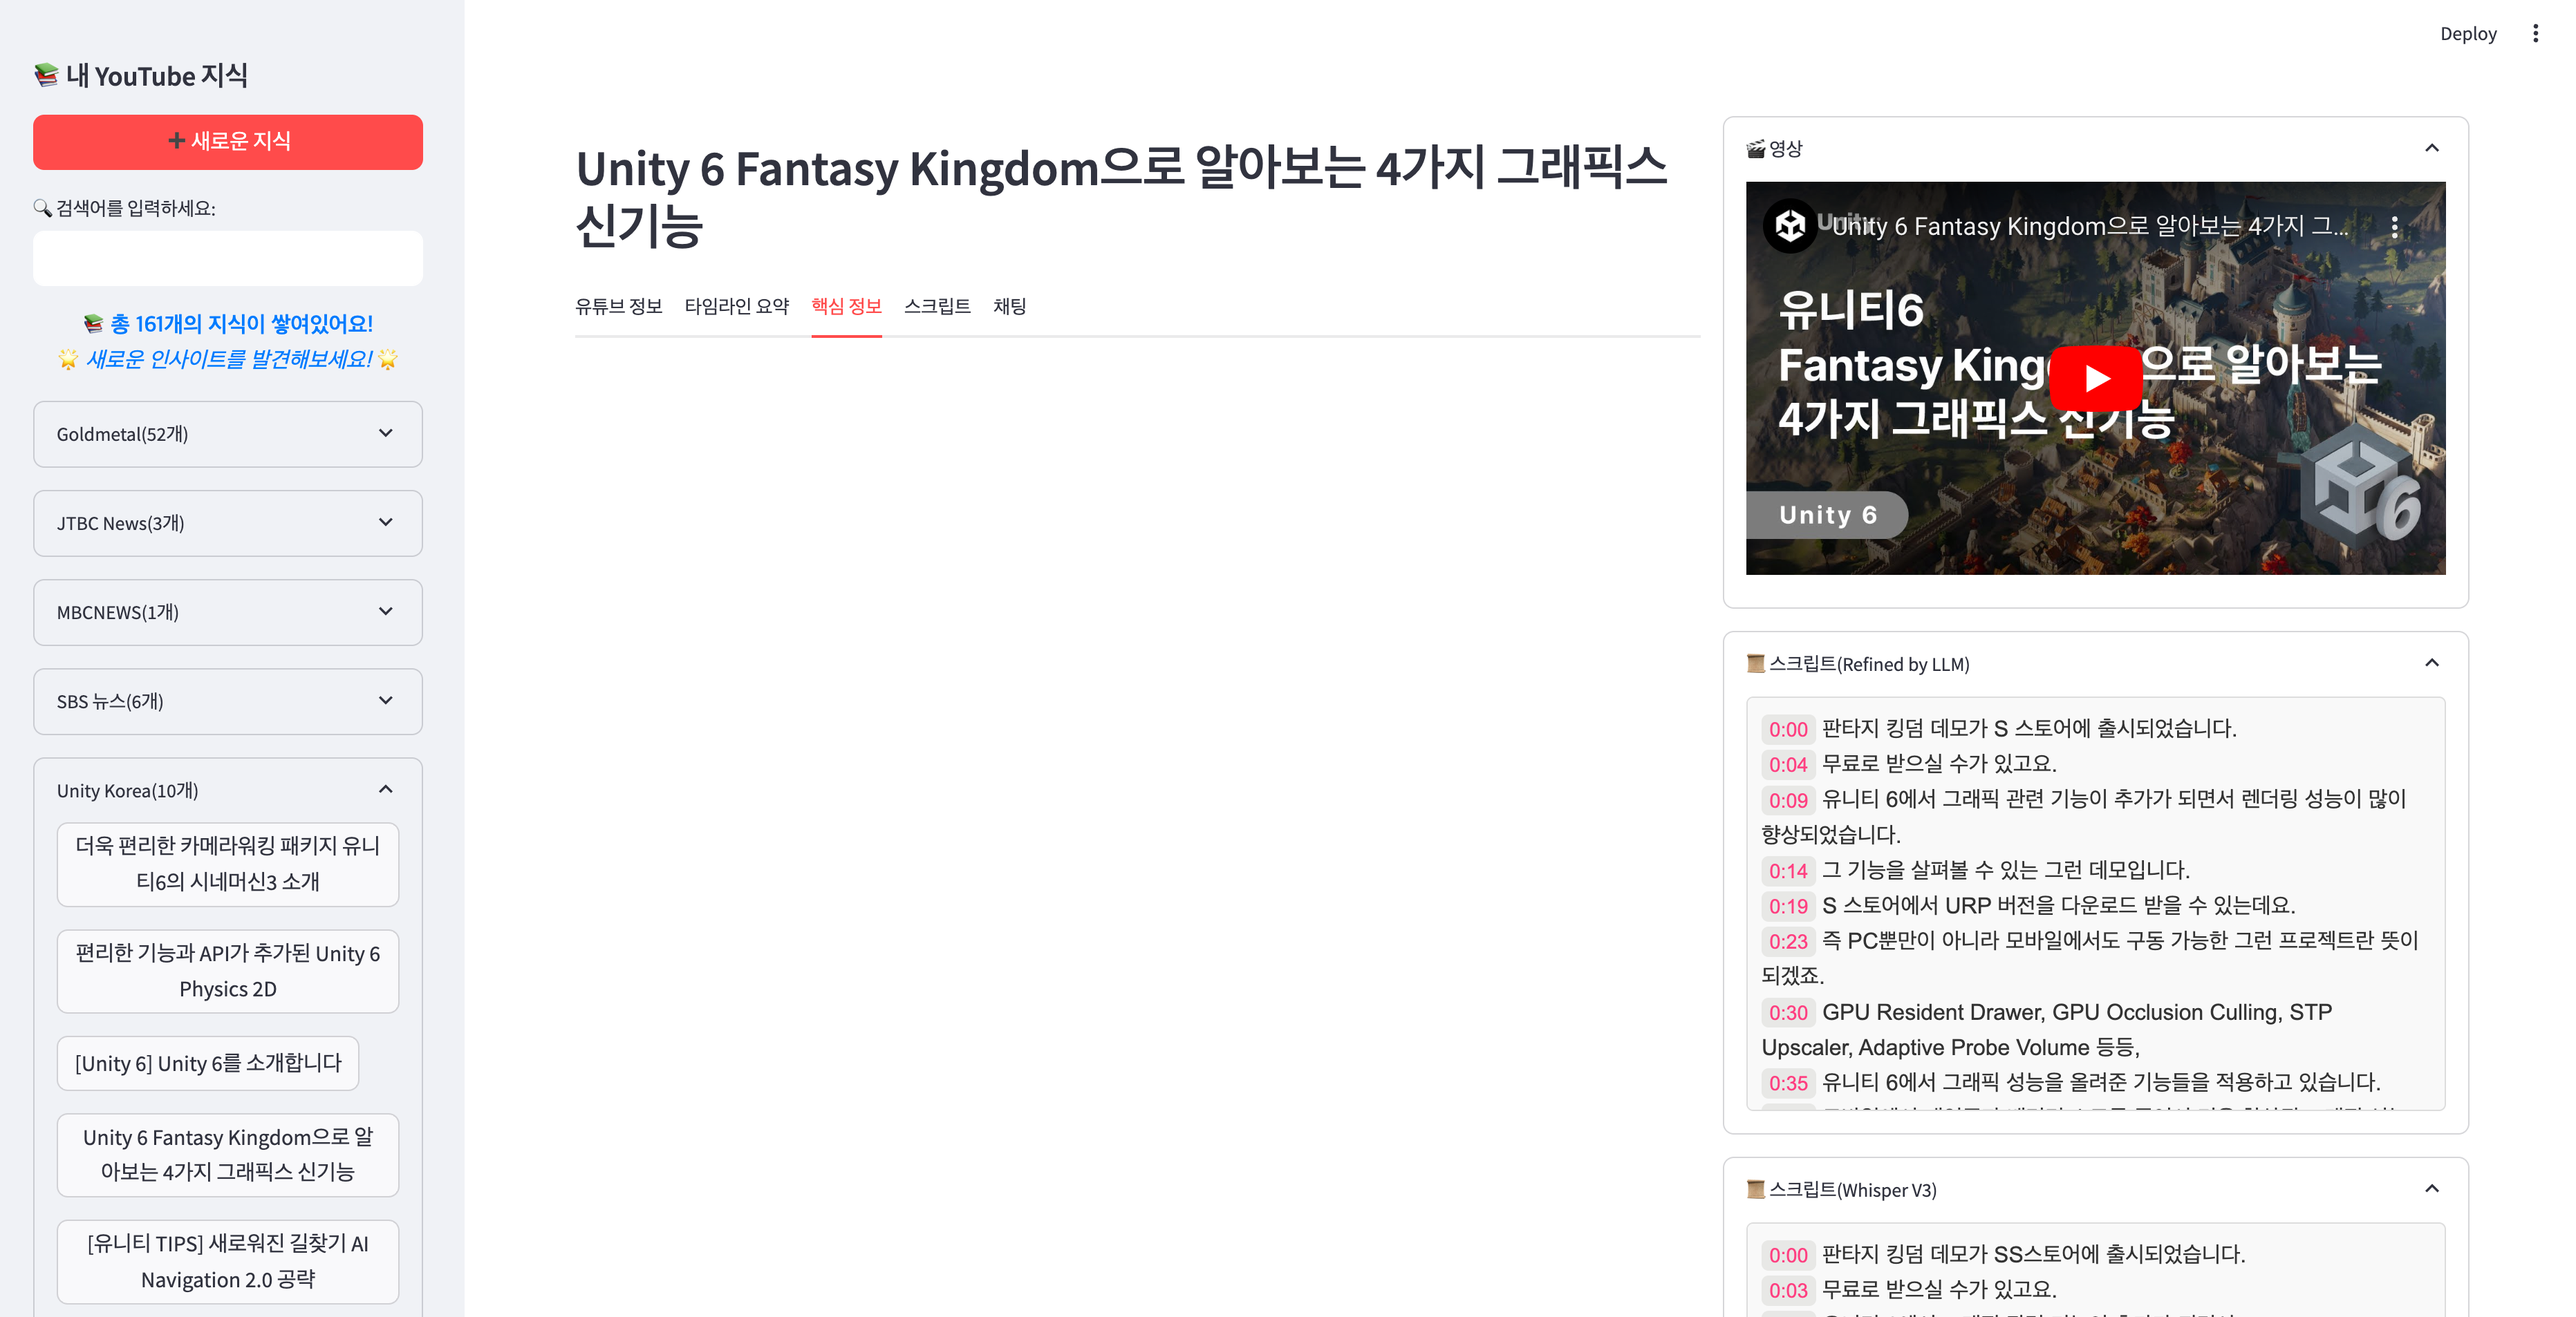
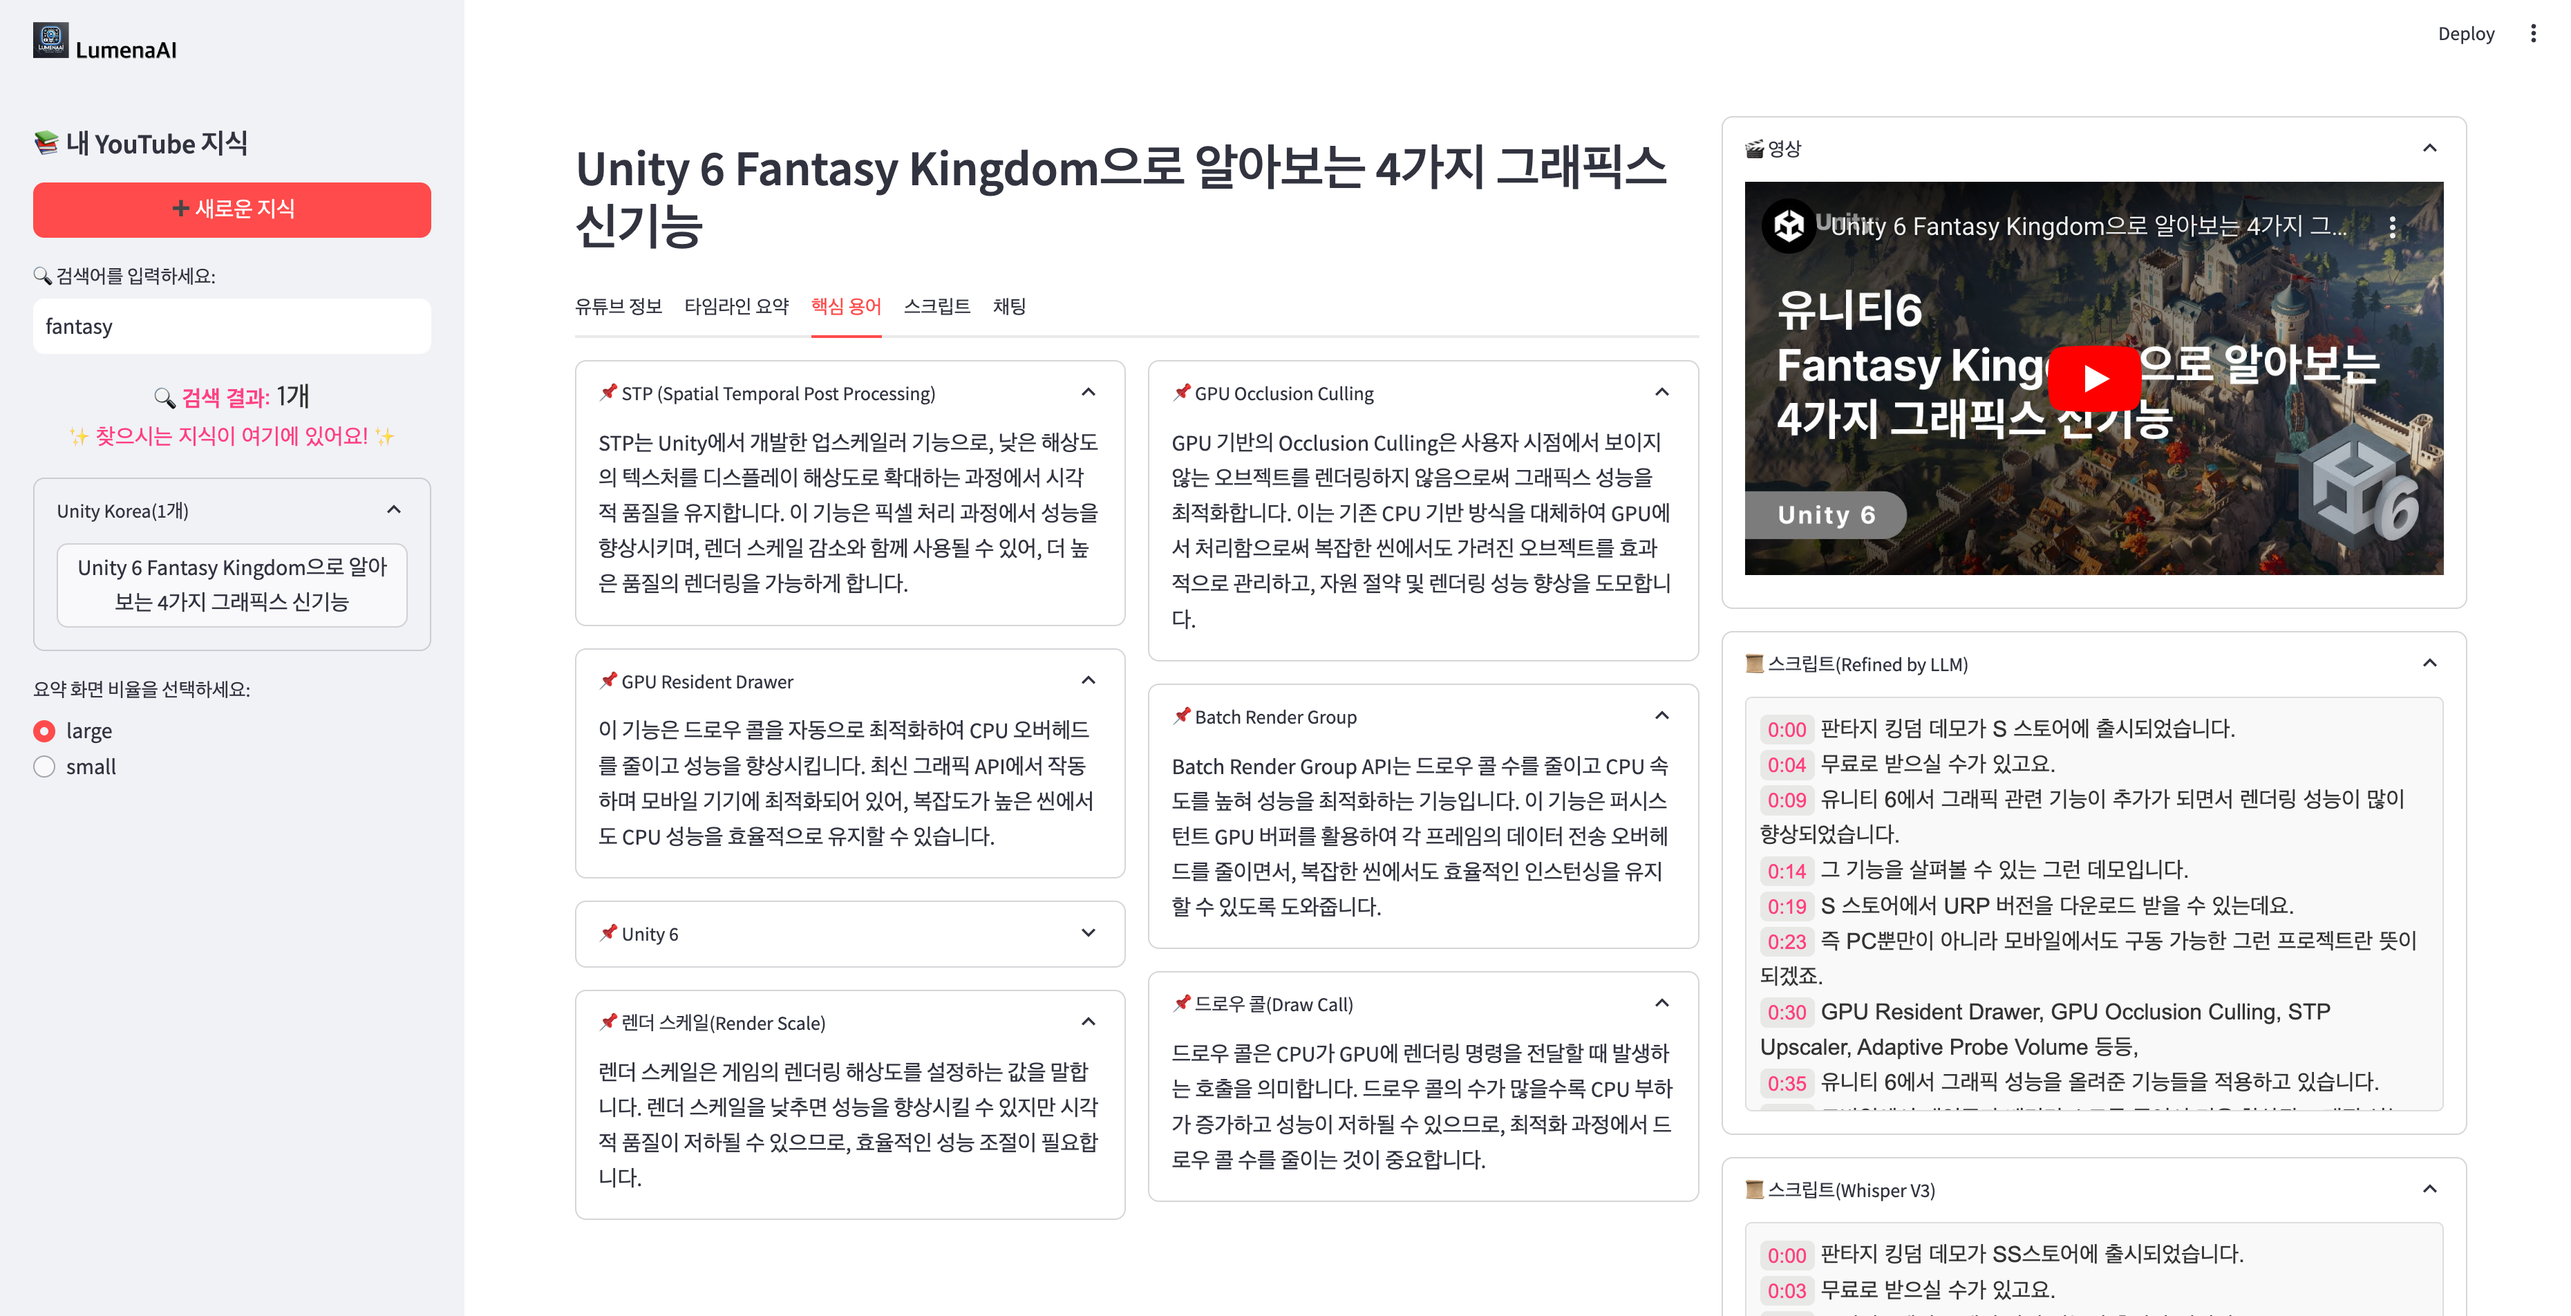
새로운 기능 이미지 추가

diff --git a/readme.md b/readme.md
@@ -20,12 +20,10 @@
     -  키워드 설명: [인스트럭션 튜닝(facebook/opt-350m)](https://github.com/adunStudio/hanghae99_plusAI_2/blob/main/7%EC%A3%BC%EC%B0%A8_%EC%8B%AC%ED%99%94/train.py)
 
 ### 8주차
+- [ ]  **핵심 용어 모음집 생성 기능 로컬 LLM 적용**
+    - 한 푼이라도 아끼자!
 - [ ]  **프롬프트 최적화를 통한 최고의 요약 생성**
     - 프롬프트 엔지니어링을 통해 요약 품질을 극대화하고 효율적인 응답 생성 전략 개발.
-
-- [x]  **핵심 용어 모음집 생성 기능 로컬 LLM 적용**
-    - 한 푼이라도 아끼자!
-
 ---
 
 ### 목차
